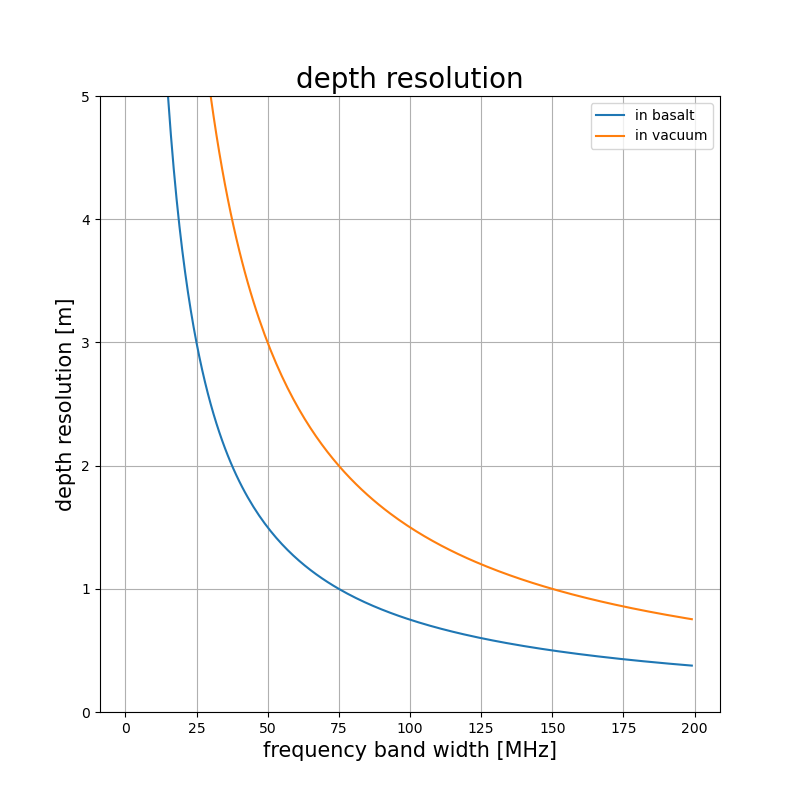
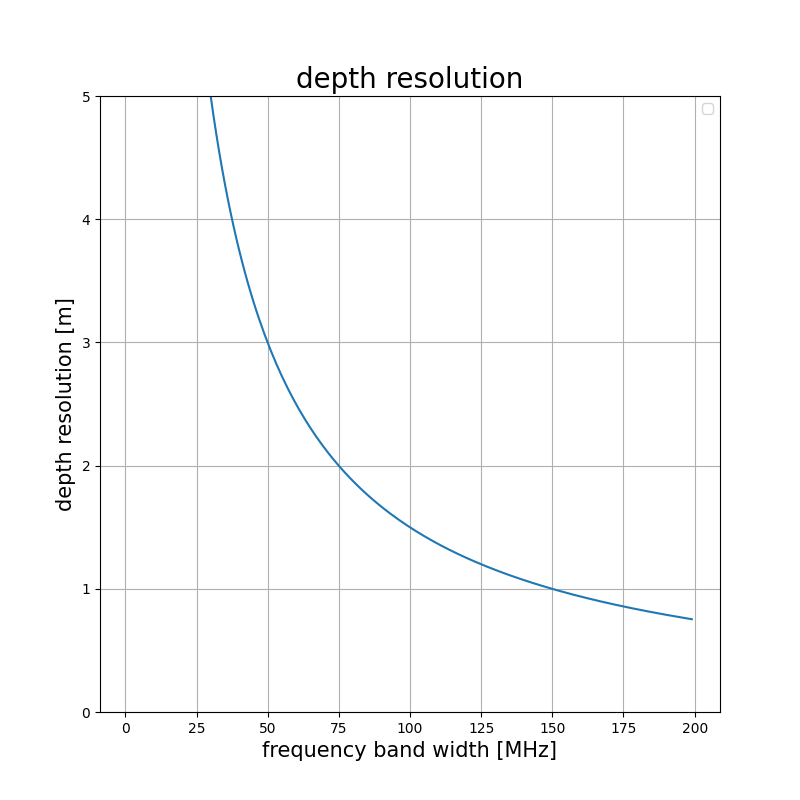
ラベル消した

diff --git a/recieved_power.py b/recieved_power.py
@@ -26,6 +26,8 @@ R = np.arange(1, 100, 0.1)
 #反射係数・透過係数
 reflection = (np.sqrt(epsilon_1) - np.sqrt(epsilon_0))**2 / (np.sqrt(epsilon_1) + np.sqrt(epsilon_0))**2
 through = 1-reflection
+print('反射係数', reflection)
+print('投下係数', through)
 
 
 #--------
@@ -42,6 +44,7 @@ def freq_depth_power():
     #パワーの計算
     power = P_t*G_t**2*(c/f*10**6)**2/(4*np.pi)**3/d**4 * RCS ** through**4 *reflection * attenuation**(2*d)
     power_dB = 10*np.log10(power/noise)
+
     #描画
     plt.pcolormesh(f, d, power_dB, cmap='coolwarm', norm=Normalize(vmin=-100, vmax=100))
     #カラーバー

diff --git a/depth_resolution.py b/depth_resolution.py
@@ -18,8 +18,8 @@ dR_vacuum = c/(2*np.sqrt(epsilon0)*df*10**6)
 
 #描画
 plt.figure(figsize=(8, 8))
-plt.plot(df, dR_basalt, label='in basalt')
-plt.plot(df, dR_vacuum, label='in vacuum')
+#plt.plot(df, dR_basalt, label='in basalt')
+plt.plot(df, dR_vacuum)
 
 #グラフの体裁
 plt.title('depth resolution', fontsize='20')
